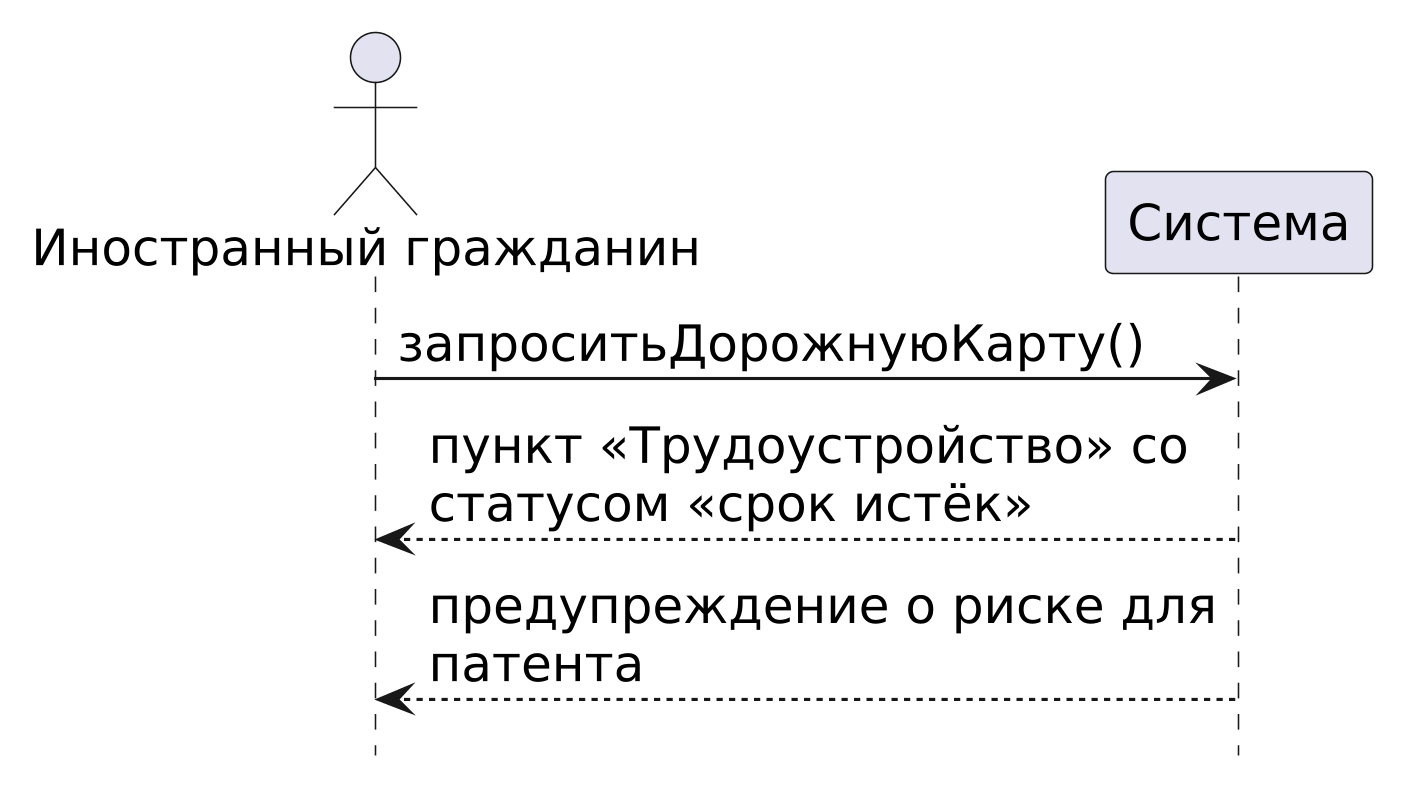
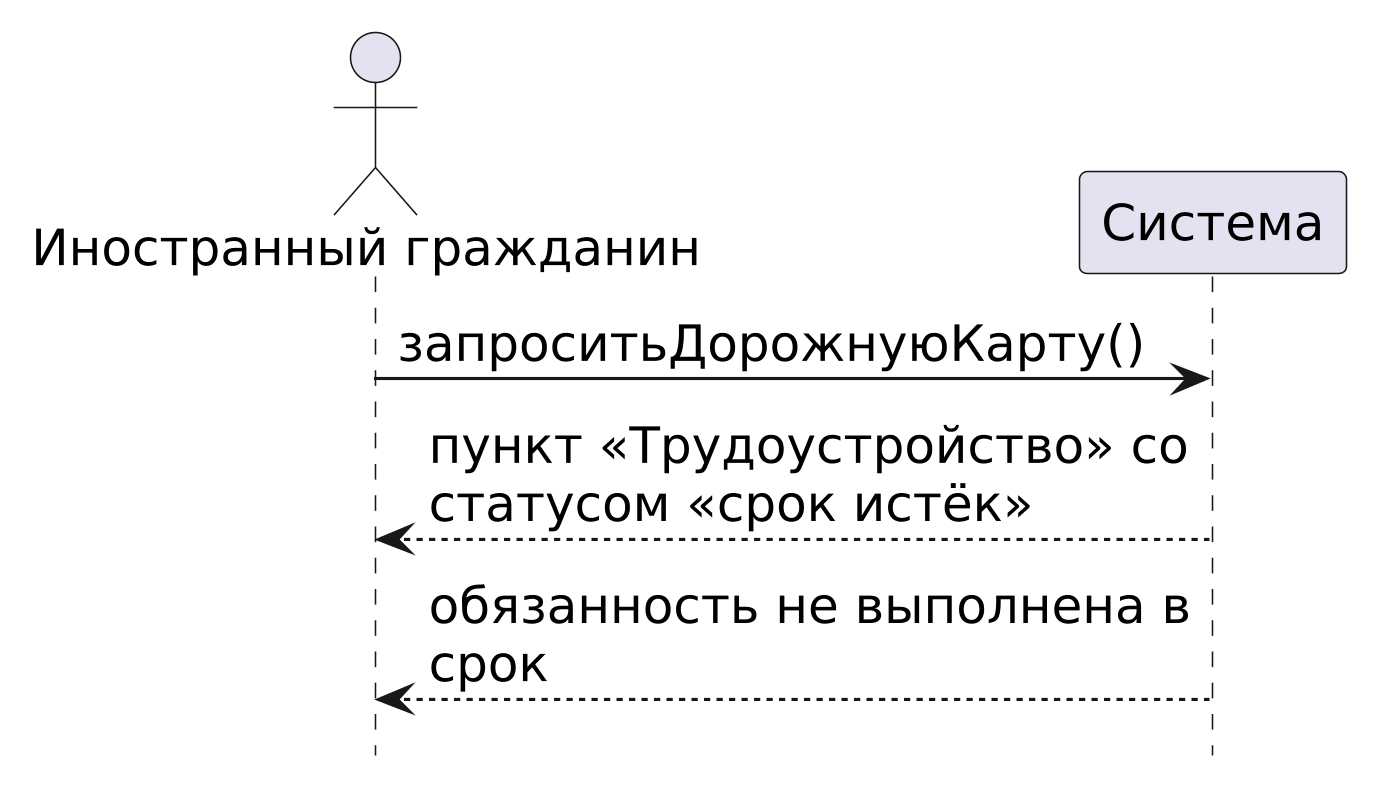
лаб. 3: вместо «риска для патента» факт неисполнения, решение об аннулировании у МВД

diff --git a/tsu/5sem/Функциональное моделирование систем/документы/lab3.md b/tsu/5sem/Функциональное моделирование систем/документы/lab3.md
@@ -42,8 +42,8 @@
 
 ![П2, срок истёк](img/04-p2-alternativa-srok.png)
 
-Пункт остаётся в карте, но со статусом «срок истёк». Система не скрывает нарушение, а
-предупреждает о риске для патента.
+Пункт остаётся в карте, но со статусом «срок истёк». Система сообщает, что обязанность не выполнена
+в срок. Решение об аннулировании патента принимает МВД, а не система.
 
 ## Описания операций
 
@@ -69,7 +69,3 @@
 
 Постусловия описывают изменения состояния модели: создание экземпляров и образование связей.
 Показ карты на экране постусловием не является, это результат интерфейса.
-
-## Что осталось за рамками
-
-- Диаграммы коммуникаций и классы проектирования в эту работу не входят.
